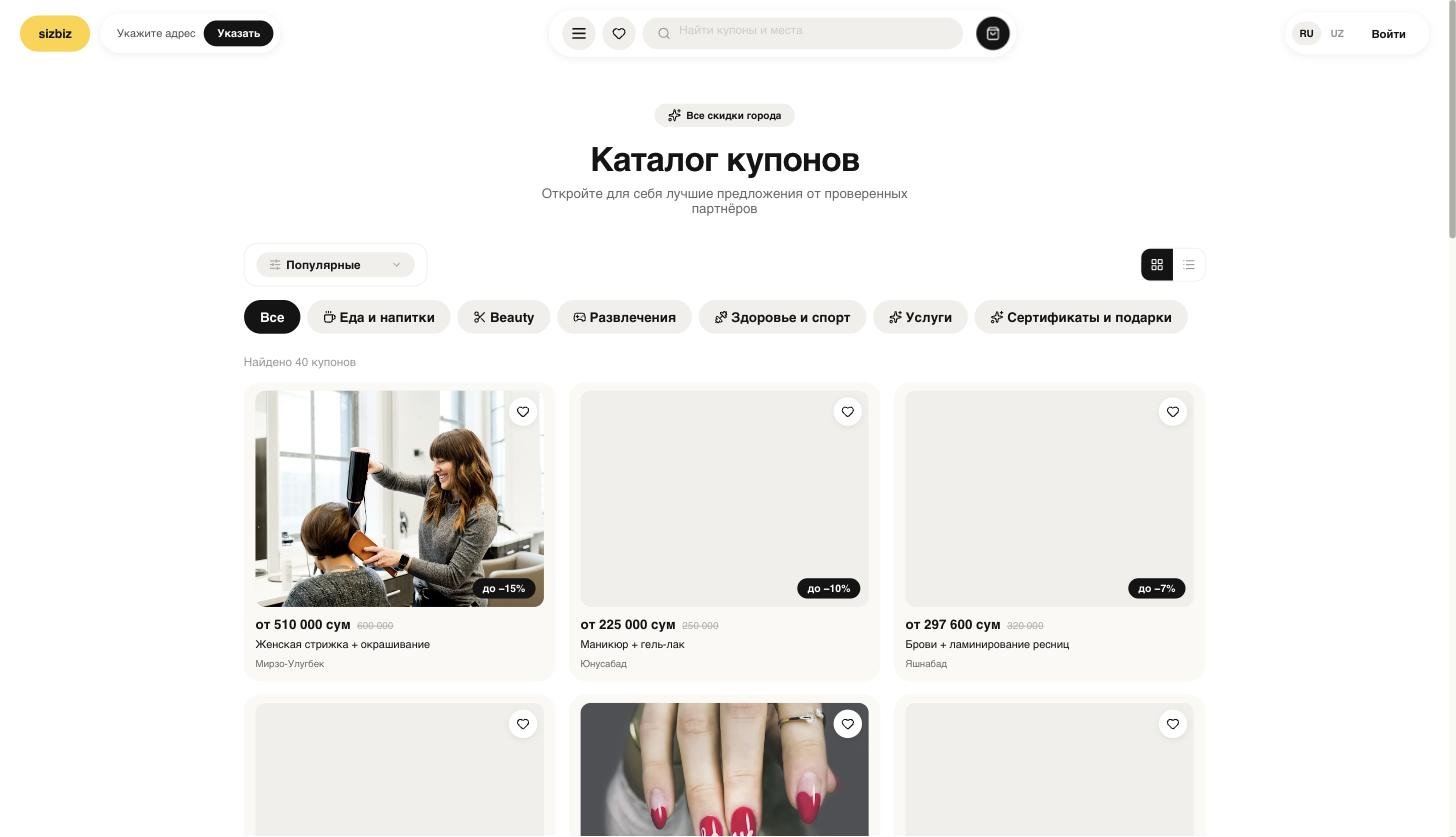
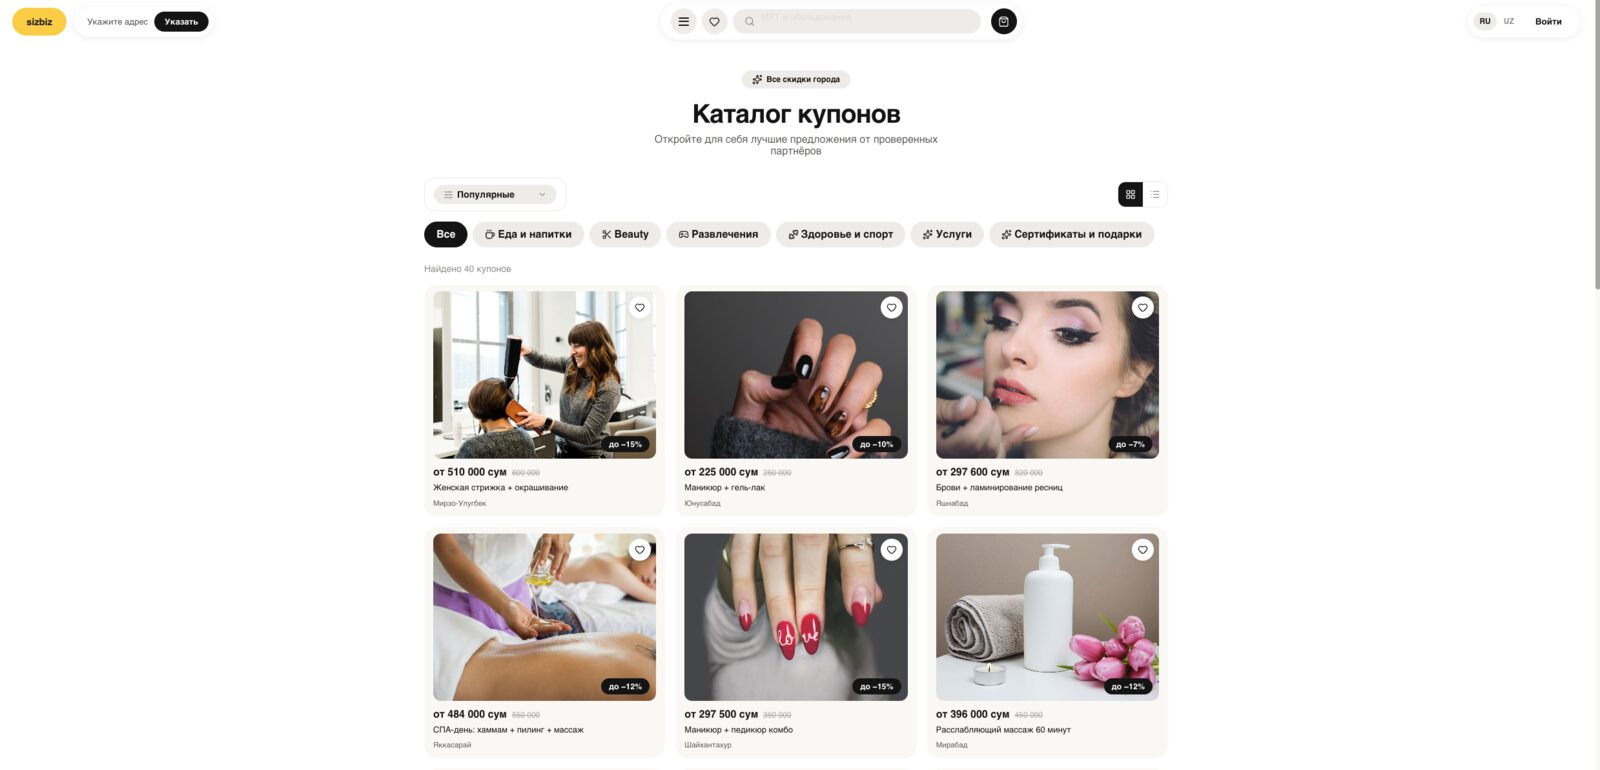
docs(readme): мобильные скриншоты + полноширинный веб-каталог
- Заменил веб-скрин каталога на полноширинный (чище).
- Добавил ряд из 3 мобильных экранов (домашняя, «купоны дня», меню категорий) —
  app-store стиль, показывает mobile-first/Telegram-native продукт для жюри.

diff --git a/README.md b/README.md
@@ -25,6 +25,16 @@
 
 <sub>Catalog — real offers across 6 categories, with filters &amp; sorting</sub>
 
+<br>
+
+<img src="docs/assets/screenshot-mobile-home.jpg" alt="sizbiz mobile — home" width="215">
+&nbsp;
+<img src="docs/assets/screenshot-mobile-deals.jpg" alt="sizbiz mobile — deals of the day" width="215">
+&nbsp;
+<img src="docs/assets/screenshot-mobile-catalog.jpg" alt="sizbiz mobile — catalog" width="215">
+
+<sub>Mobile web — home, deals of the day &amp; catalog (Telegram-native, mobile-first)</sub>
+
 </div>
 
 ---
